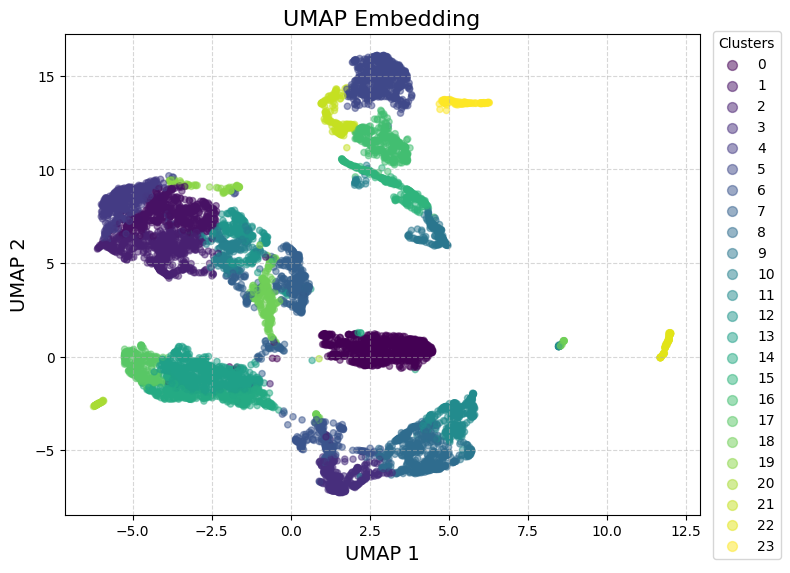
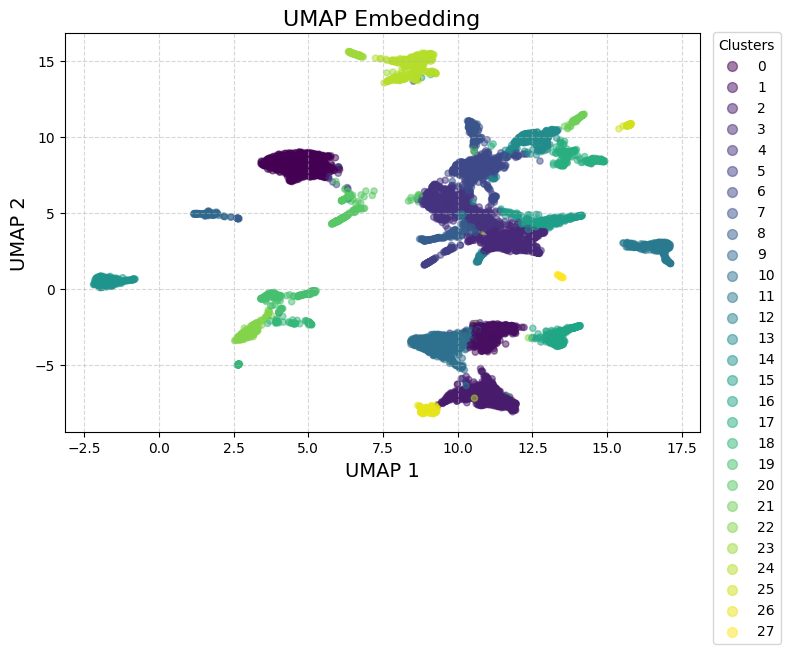
use preprocess function before umap and in scanpy benchmarking

diff --git a/scPyDR/scPyDR.py b/scPyDR/scPyDR.py
@@ -131,12 +131,12 @@ def main():
     except Exception:
         utils.ERROR(">> Failed to load 10x Genomics data into an AnnData object. Please check: \n 1) path to directory \n 2) directory contains properly formatted 10x Genomics files. \n Read more on 10x Genomics files here: https://www.10xgenomics.com/support/software/space-ranger/latest/advanced/hdf5-feature-barcode-matrix-format")
     try:
-        adatac = utils.preprocess(adata, args.min_genes, args.min_cells, args.min_cell_reads,
+        adata_pca = utils.preprocess(adata, args.min_genes, args.min_cells, args.min_cell_reads,
                                  args.min_gene_counts, args.n_top_genes, args.target_sum)
     except Exception:
         utils.ERROR(">> Failed to preprocess data. Check arguments and try again.")
     try:
-        df = utils.convert(adatac)
+        df = utils.convert(adata_pca)
     except Exception:
         utils.ERROR(">> Failed to convert AnnData object to DataFrame. This should not happen; please make a pull request to scPyDR.")
     sys.stdout.write("Data loaded successfully.\n\n")    
@@ -176,7 +176,8 @@ def main():
 
     if args.umap:
         sys.stdout.write("Running UMAP for dimensionality reduction and visualization... \n")
-        umap_embedding, cluster_labels = utils.umap_embedding(adata)
+        adata_umap = utils.preprocess(adata, args.min_genes, args.min_cells, args.min_cell_reads, args.min_gene_counts, args.n_top_genes, args.target_sum)
+        umap_embedding, cluster_labels = utils.umap_embedding(adata_umap)
         # Further actions with umap_embedding if needed
         sys.stdout.write("UMAP computation completed! \n\n")
 

diff --git a/benchmark/scanpy_pca_variance.py b/benchmark/scanpy_pca_variance.py
@@ -1,5 +1,7 @@
 import scanpy as sc
 import argparse
+from scPyDR import utils as utils
+from scPyDR import __version__
 
 
 def main():
@@ -12,6 +14,9 @@ def main():
 
     # Load data
     adata = sc.read_10x_mtx(args.datadir)
+
+    # Preprocess the data
+    adata = utils.preprocess(adata)
     
     # Run PCA
     sc.pp.pca(adata, n_comps=args.nComp)
@@ -21,7 +26,7 @@ def main():
     explained_var_ratio_n = explained_var_ratio[:args.nComp].sum()
     explained_var_perc_n = round(explained_var_ratio_n*100, 2)
     print("Tool: scanpy.pp.pca")
-    print(f"Number of principal componenets: {args.nComp}")
+    print(f"Number of principal components: {args.nComp}")
     print(f"Total explained variance: {explained_var_perc_n}%")
     
 

diff --git a/benchmark/scanpy_pca.py b/benchmark/scanpy_pca.py
@@ -1,5 +1,7 @@
 import scanpy as sc
 import argparse
+from scPyDR import utils as utils
+from scPyDR import __version__
 
 def main():
     # Parse command-line arguments
@@ -10,6 +12,9 @@ def main():
     # Load data
     adata = sc.read_10x_mtx(args.datadir)
 
+    # Preprocess the data
+    adata = utils.preprocess(adata)
+    
     # Run PCA with 10 PCs
     sc.pp.pca(adata, n_comps=10)
     # Plot top two PCs

diff --git a/benchmark/scpydr_pca_variance.py b/benchmark/scpydr_pca_variance.py
@@ -44,7 +44,7 @@ def main(datadir, n):
 
     # Print your desired output
     print("Tool: scPyDR")
-    print(f"Number of principal componenets: {args.nComp}")
+    print(f"Number of principal components: {args.nComp}")
     print(f"Total explained variance: {explained_var_perc_n}%")
     
 
